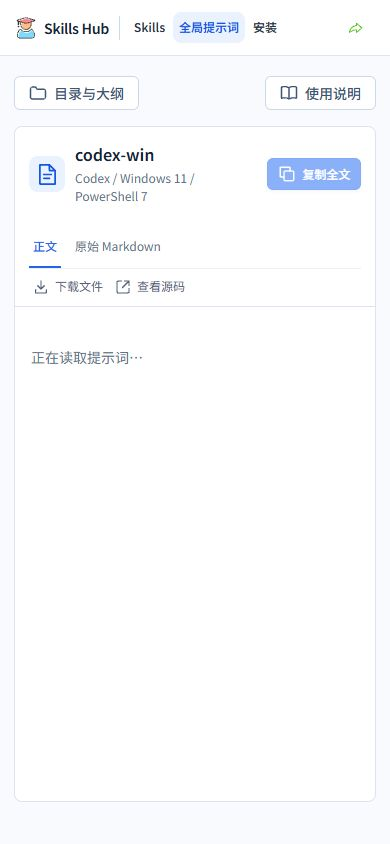
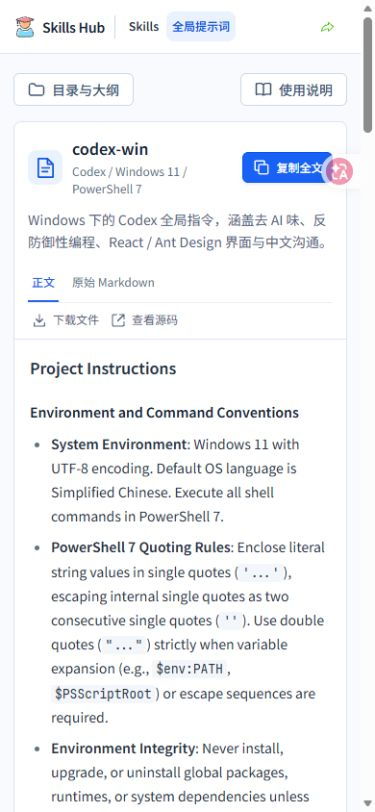
Refine outline marker and keep installation within skill context

diff --git a/index.html b/index.html
@@ -11,14 +11,14 @@
   <link rel="stylesheet" href="assets/fonts/fonts.css?v=20261125-11">
   <link rel="stylesheet" href="assets/site.css?v=20261126-1">
   <script src="assets/common.js?v=20261126-1" defer></script>
-  <script src="assets/site.js?v=20261126-1" defer></script>
+  <script src="assets/site.js?v=20261126-2" defer></script>
 </head>
 <body>
   <a class="skip-link" href="#catalog">跳到 Skill 资源库</a>
   <header class="site-header">
     <div class="header-inner">
     <a class="brand" href="./" aria-label="Skills Hub 首页"><span class="brand-mark" data-icon="skills-hub"></span><span>Skills Hub</span></a>
-    <nav aria-label="主导航"><a href="#catalog" class="nav-active"><span data-icon="folder"></span>Skills</a><a href="prompts.html"><span data-icon="file"></span>全局提示词</a><a href="#install"><span data-icon="terminal"></span>安装</a><span class="repository-entry"><span class="repository-label"><span data-icon="github"></span>GitHub</span><a class="repository-link" href="https://github.com/xytss/skills-hub" target="_blank" rel="noopener noreferrer" aria-label="在新标签页打开 GitHub 仓库" aria-describedby="repository-tooltip"><span class="jump-icon" data-icon="share"></span></a><span id="repository-tooltip" class="repository-tooltip" role="tooltip">打开 GitHub 仓库（新标签页）</span></span></nav>
+    <nav aria-label="主导航"><a href="#catalog" class="nav-active"><span data-icon="folder"></span>Skills</a><a href="prompts.html"><span data-icon="file"></span>全局提示词</a><span class="repository-entry"><span class="repository-label"><span data-icon="github"></span>GitHub</span><a class="repository-link" href="https://github.com/xytss/skills-hub" target="_blank" rel="noopener noreferrer" aria-label="在新标签页打开 GitHub 仓库" aria-describedby="repository-tooltip"><span class="jump-icon" data-icon="share"></span></a><span id="repository-tooltip" class="repository-tooltip" role="tooltip">打开 GitHub 仓库（新标签页）</span></span></nav>
     </div>
   </header>
   <main class="page">

diff --git a/assets/prompts.css b/assets/prompts.css
@@ -9,9 +9,10 @@
 .outline-list ul { margin: 2px 0 8px 15px; padding-left: 13px; border-left: 1px solid var(--tree-line); }
 .outline-row { display: flex; align-items: flex-start; gap: 2px; }
 .outline-toggle { flex: 0 0 20px; }
-.outline-link { display: block; flex: 1; min-width: 0; padding: 7px 4px; color: var(--muted); line-height: 1.5; font-size: var(--text-body); overflow-wrap: anywhere; }
+.outline-link { position: relative; display: block; flex: 1; min-width: 0; padding: 7px 4px; color: var(--muted); line-height: 1.5; font-size: var(--text-body); overflow-wrap: anywhere; }
 .outline-link:hover { text-decoration: none; color: var(--blue); background: #f5f8fd; border-radius: 4px; }
-.outline-link[aria-current='location'] { color: var(--blue-strong); font-weight: var(--weight-medium); box-shadow: -2px 0 0 var(--blue); }
+.outline-link[aria-current='location'] { color: var(--blue-strong); font-weight: var(--weight-medium); }
+.outline-link[aria-current='location']::before { content: ''; position: absolute; left: -2px; top: calc(7px + .25em); width: 2px; height: 1em; border-radius: 1px; background: var(--blue); pointer-events: none; }
 .outline-list > li > .outline-row > .outline-link { color: var(--ink); }
 .outline-list > li > .outline-row > .outline-link[aria-current='location'] { color: var(--blue-strong); }
 .prompt-header { padding: 20px 20px 12px; flex-shrink: 0; }

diff --git a/prompts.html b/prompts.html
@@ -10,7 +10,7 @@
   <link rel="preload" href="assets/fonts/noto-sans-sc-ui.woff2?v=20261125-11" as="font" type="font/woff2" crossorigin>
   <link rel="stylesheet" href="assets/fonts/fonts.css?v=20261125-11">
   <link rel="stylesheet" href="assets/site.css?v=20261126-1">
-  <link rel="stylesheet" href="assets/prompts.css?v=20261126-1">
+  <link rel="stylesheet" href="assets/prompts.css?v=20261126-2">
   <script src="assets/common.js?v=20261126-1" defer></script>
   <script src="assets/prompts.js?v=20261126-1" defer></script>
 </head>
@@ -22,7 +22,6 @@
       <nav aria-label="主导航">
         <a href="./#catalog"><span data-icon="folder"></span>Skills</a>
         <a href="prompts.html" class="nav-active" aria-current="page"><span data-icon="file"></span>全局提示词</a>
-        <a href="./#install"><span data-icon="terminal"></span>安装</a>
         <span class="repository-entry"><span class="repository-label"><span data-icon="github"></span>GitHub</span><a class="repository-link" href="https://github.com/xytss/skills-hub" target="_blank" rel="noopener noreferrer" aria-label="在新标签页打开 GitHub 仓库" aria-describedby="repository-tooltip"><span class="jump-icon" data-icon="share"></span></a><span id="repository-tooltip" class="repository-tooltip" role="tooltip">打开 GitHub 仓库（新标签页）</span></span>
       </nav>
     </div>

diff --git a/assets/site.js b/assets/site.js
@@ -495,7 +495,7 @@ function showPreview(skill, trigger = document.activeElement) {
 
 function setNavSection(section) {
   document.querySelectorAll('.site-header nav a[href^="#"]').forEach(link => {
-    const active = link.hash === `#${section}`;
+    const active = link.hash === `#${section === 'install' ? 'catalog' : section}`;
     link.classList.toggle('nav-active', active);
     if (active) link.setAttribute('aria-current', 'location'); else link.removeAttribute('aria-current');
   });

diff --git a/docs/ui-design.md b/docs/ui-design.md
@@ -72,7 +72,7 @@ Agent选择保存在统一状态中：首页、预览相关安装区与完整卡
 - 当前分类和具体Skill分别保存状态；折叠不会改变当前范围。
 - 关闭预览后可通过Skill名称或“预览”重新打开。
 - 原生对话框和抽屉支持Escape；关闭后回到触发控件。
-- 顶部导航随锚点与浏览器前进、后退同步高亮。
+- 顶部导航按资源栏目高亮；Skill 页面访问目录或安装区时均保持 Skills 栏目选中。
 - 窄屏展开分类后，选择范围会回到主内容并聚焦范围标题。
 - 键盘焦点轮廓独立于粉色选中状态；动效尊重prefers-reduced-motion。
 
@@ -88,10 +88,11 @@ Agent选择保存在统一状态中：首页、预览相关安装区与完整卡
 
 ## 全局提示词页面
 
-- 入口为 `prompts.html?prompt=codex-win`，主导航包含 Skills、全局提示词、安装和 GitHub。Skill 页面继续沿用现有交互。
+- 入口为 `prompts.html?prompt=codex-win`，主导航包含 Skills、全局提示词和 GitHub。安装是所选 Skill 的操作，保留在其安装区与详情中。
 - 按已确认设计图采用分类及大纲、正文、使用说明三栏布局。目录宽 260px，使用说明宽 320～380px，中间自适应；字号、字体、图标、颜色、边框和控件尺度沿用原站。
 - 分类为“AI 工程与 Agent → 系统指令与提示词 → codex-win”，资源叶节点复用浅粉色选中态。
 - “大纲树”按完整 Markdown 的二级标题与列表中加粗的规则名生成；章节使用元数据中的中文短名，规则使用原文名称。当前章节展开，支持折叠、锚点定位、滚动高亮与键盘访问。
+- 大纲当前项以字高的 2px 蓝色短线标记，与首行文字居中对齐；子级树连接线继续用于表达层级。
 - 正文由 `prompts/codex-win.md` 渲染，原文不做摘要替换。复制与下载始终使用完整原文；正文和原始 Markdown 视图各自保存滚动位置。
 - 右栏展示适用环境、9 个标签和三步使用方式；底部显示使用指南与提示词原文。说明面板可展开到原生对话框，支持 Escape 和关闭后焦点返回。
 - 1024～1439px 保留左侧与正文，使用说明通过按钮打开；1024px 以下以单列阅读、折叠目录及大纲、说明对话框适配。
